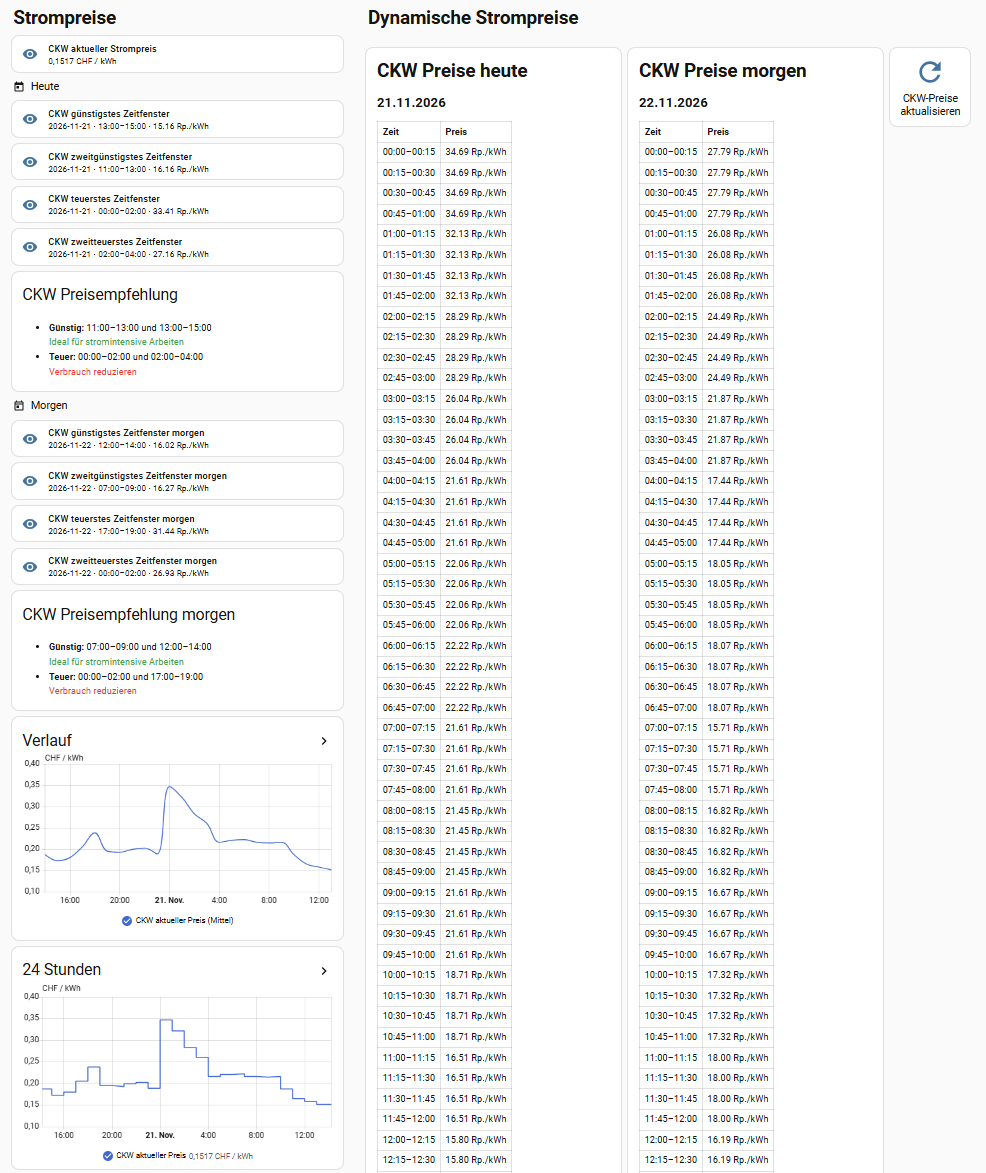
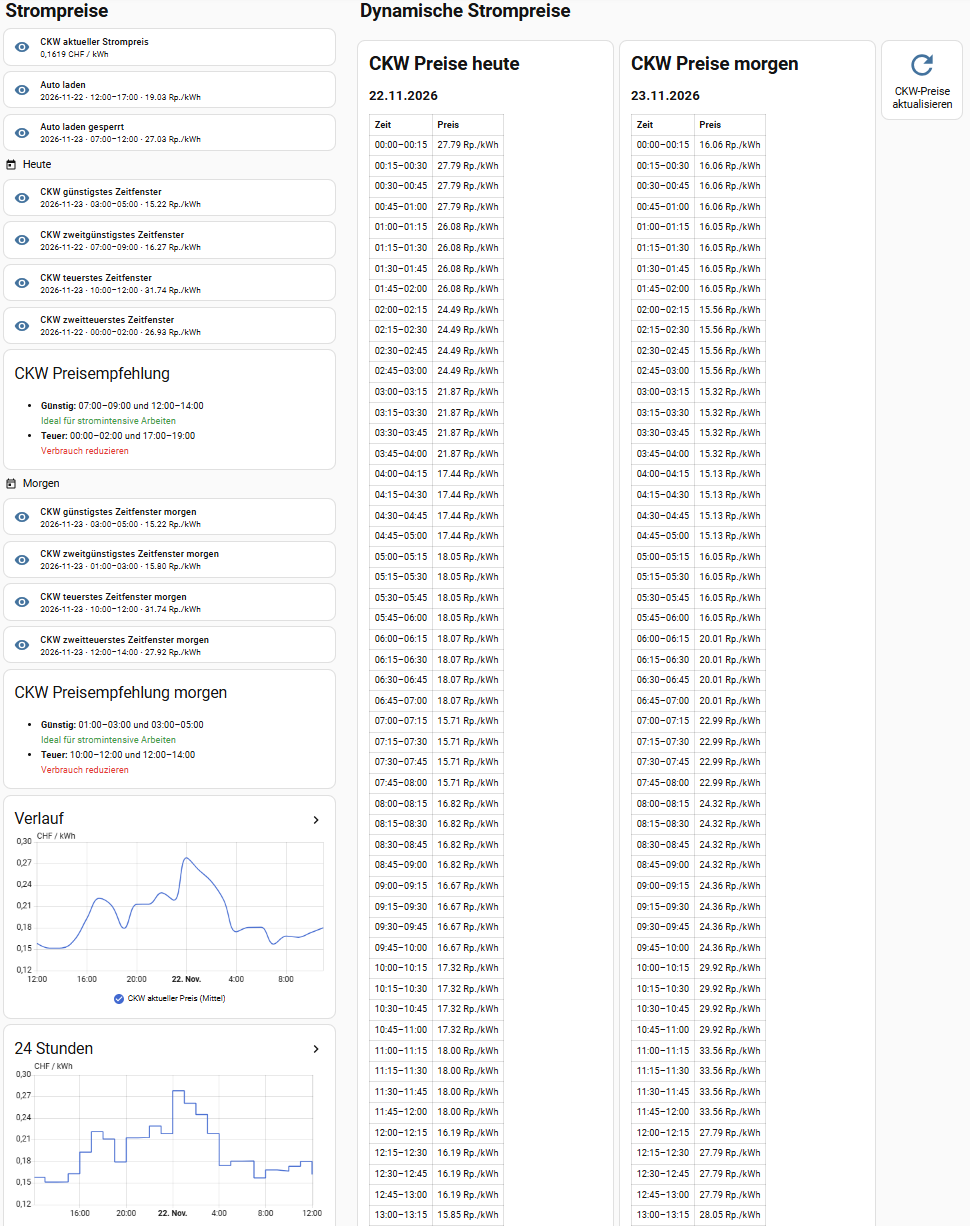
docs: refresh CKW helper and dashboard guides

diff --git a/docs/anleitung.md b/docs/anleitung.md
@@ -122,9 +122,90 @@ Erstelle einen Template-Sensor-Helfer unter **Einstellungen → Geräte & Dienst
 
 Setze die Einheit auf `CHF/kWh`. Lasse die Geräteklasse leer. Falls der Helfer eine Zustandsklasse anbietet, wähle `measurement` (Messwert). Speichere den Helfer und prüfe die von Home Assistant erstellte Entitäts-ID. Die folgenden Beispiele verwenden `sensor.ckw_aktueller_preis`; ersetze sie durch die tatsächlich erstellte ID, falls sie abweicht.
 
+## 4. Acht Zeitfenster-Sensoren erstellen
+
+Erstelle acht Template-Sensor-Helfer. Für jeden Helfer verwendest du denselben Zustandscode weiter unten, aber passt die drei Einstellungen am Anfang entsprechend der Tabelle an. Der Code filtert erst auf den Zieldatumsbereich und sortiert danach. Die Sensoren für den zweiten Platz schliessen Zeitfenster aus, die das jeweils beste Zeitfenster überlappen.
+
+| Helfername | `tage_voraus` | `teuerstes` | `zweites` |
+|---|---:|---|---|
+| CKW günstigstes Zeitfenster von 2h | `0` | `false` | `false` |
+| CKW zweitgünstigstes Zeitfenster von 2h | `0` | `false` | `true` |
+| CKW teuerstes Zeitfenster von 2h | `0` | `true` | `false` |
+| CKW zweitteuerstes Zeitfenster von 2h | `0` | `true` | `true` |
+| CKW günstigstes Zeitfenster morgen von 2h | `1` | `false` | `false` |
+| CKW zweitgünstigstes Zeitfenster morgen von 2h | `1` | `false` | `true` |
+| CKW teuerstes Zeitfenster morgen von 2h | `1` | `true` | `false` |
+| CKW zweitteuerstes Zeitfenster morgen von 2h | `1` | `true` | `true` |
+
+Für jeden Sensor: Code kopieren, die drei Parameterzeilen oben setzen, den Code im Feld **Zustand** des jeweiligen Template-Sensor-Helfers speichern. Nicht unter **Entwicklerwerkzeuge → Zustände → Zustand setzen** einfügen; dieses Werkzeug wertet Jinja nicht aus.
+
+```jinja
+{% set tage_voraus = 0 %}
+{% set teuerstes = false %}
+{% set zweites = false %}
+
+{% set p = state_attr('sensor.ckw_tarifdaten', 'prices') or [] %}
+{% set zieltag = (now() + timedelta(days=tage_voraus)).strftime('%Y-%m-%d') %}
+{% set ns = namespace(fenster=[]) %}
+
+{# Acht Viertelstundenpreise ergeben ein 2-Stunden-Fenster #}
+{% for i in range(0, (p | count) - 7) %}
+  {% set block = p[i:i+8] %}
+  {% set werte = namespace(liste=[]) %}
+
+  {% for q in block %}
+    {% if q.integrated is defined and q.integrated | count > 0 %}
+      {% set werte.liste = werte.liste + [q.integrated[0].value | float(0)] %}
+    {% endif %}
+  {% endfor %}
+
+  {% if block | count == 8
+        and werte.liste | count == 8
+        and block[0].start_timestamp[:10] == zieltag
+        and block[7].end_timestamp[:10] == zieltag %}
+    {% set ns.fenster = ns.fenster + [{
+      'start': i,
+      'preis': (werte.liste | sum) / 8
+    }] %}
+  {% endif %}
+{% endfor %}
+
+{% if teuerstes %}
+  {% set sortiert = ns.fenster | sort(attribute='preis', reverse=true) %}
+{% else %}
+  {% set sortiert = ns.fenster | sort(attribute='preis') %}
+{% endif %}
+
+{% set auswahl = namespace(fenster=none) %}
+
+{% if sortiert | count > 0 %}
+  {% if zweites %}
+    {% set bestes = sortiert[0] %}
+    {% for f in sortiert %}
+      {% if auswahl.fenster is none
+            and (f.start >= bestes.start + 8
+                 or f.start + 8 <= bestes.start) %}
+        {% set auswahl.fenster = f %}
+      {% endif %}
+    {% endfor %}
+  {% else %}
+    {% set auswahl.fenster = sortiert[0] %}
+  {% endif %}
+{% endif %}
+
+{% if auswahl.fenster is not none %}
+  {% set i = auswahl.fenster.start %}
+  {{ p[i].start_timestamp[:10] }} · {{ p[i].start_timestamp[11:16] }}–{{ p[i+7].end_timestamp[11:16] }} · {{ '%.2f' | format(auswahl.fenster.preis * 100) }} Rp./kWh
+{% else %}
+Für den gewählten Tag wurden keine passenden CKW-Preise gefunden
+{% endif %}
+```
+
+Die `sensor.`-IDs entstehen aus den Helfernamen. Home Assistant kann Umlaute umschreiben oder bei Namenskonflikten eine Endung hinzufügen. Prüfe die tatsächlichen IDs unter **Einstellungen → Geräte & Dienste → Entitäten** und verwende genau diese IDs in weiteren Vorlagen.
+
 Für 5-Stunden-Fenster zum Laden eines Elektroautos siehe die separate [Anleitung zu Auto-Laden-Zeitfenstern](auto-laden.md).
 
-## 4. Automationsbeispiel
+## 5. Automationsbeispiel
 
 Dieses Beispiel wird ausgelöst, wenn der aktuelle Preis die Schwelle von 0,20 CHF/kWh (20 Rp./kWh) nach unten überschreitet. Ergänze unter `actions:` die gewünschte Aktion.
 

diff --git a/README.md b/README.md
@@ -2,16 +2,20 @@
 
 Dieses öffentliche Teilprojekt ruft dynamische CKW-Tarifdaten ab und zeigt Beispiele für Sensoren, Preisfenster, Empfehlungen und Dashboard-Karten. Es ist ein unabhängiges Community-Beispiel und wird nicht offiziell von CKW oder Home Assistant unterstützt.
 
+![CKW-Dashboard mit Ladezeitfenstern, Preisempfehlungen und dynamischen Strompreisen](docs/assets/dashboard-preview.png)
+
+Die Dashboard-Vorschau zeigt Beispielwerte vom 22. November 2026. Preise und Zeitfenster ändern sich laufend.
+
 ## Inhalt
 
 - `packages/ckw_tarife.yaml`: Home Assistant Package mit der CKW-REST-Datenquelle
-- `docs/anleitung.md`: Sensoren, Auswertung, Empfehlungen, Benachrichtigungen und automatische Aktualisierung
+- `docs/anleitung.md`: Einrichtung und Code der Sensoren und Helfer, Empfehlungen, Benachrichtigungen und automatische Aktualisierung
 - `docs/auto-laden.md`: günstigstes und teuerstes nicht überlappendes 5-Stunden-Fenster fürs Elektroauto
 - `docs/dashboard.md`: Dashboard-Karten und Anordnung
 - `docs/examples/rest-sensor.yaml`: eigenständiges REST-Beispiel
 - `docs/assets/dashboard-preview.png`: Dashboard-Vorschau
 - `docs/CKW_Dynamischer_Tarif_Home_Assistant_Anleitung.docx`: Anleitung als Word-Dokument
-- `docs/source/`: unveränderte ursprüngliche Projektübergabe samt Anhängen und Screenshots
+- `docs/source/`: archivierte ursprüngliche Projektübergabe samt Anhängen und Screenshots
 
 ## Installation
 
@@ -21,4 +25,4 @@ Prüfe den Tarifnamen und die tatsächlich erzeugten Entity-IDs deiner Installat
 
 ## Hinweise zur Veröffentlichung
 
-Die Dateien in `docs/source/` sind zur Nachvollziehbarkeit der übergebenen Arbeitsunterlagen enthalten. Änderungen an den kuratierten Dateien und der aktiven Paketkonfiguration werden in den jeweiligen Hauptdateien vorgenommen.
+Die aktuelle und massgebliche Anleitung liegt unter `docs/anleitung.md`; die Dashboard-Referenz steht unter `docs/dashboard.md`. Die Dateien in `docs/source/` sind historische Arbeitsunterlagen und keine separate, aktuelle Anleitung. Änderungen gehören in die aktiven Dateien ausserhalb des Archivs.

diff --git a/docs/dashboard.md b/docs/dashboard.md
@@ -8,9 +8,10 @@ Das Dashboard ist in zwei Bereiche gegliedert:
 
 ### Strompreise
 
-1. Aktueller CKW-Strompreis.
+1. Aktueller CKW-Strompreis und die 5-Stunden-Fenster **Auto laden** und **Auto laden gesperrt**.
 2. Abschnitt **Heute** mit den vier heutigen 2-Stunden-Zeitfenstern und der heutigen Preisempfehlung.
 3. Abschnitt **Morgen** mit den vier morgigen 2-Stunden-Zeitfenstern und der morgigen Preisempfehlung.
+4. Verlaufskarten für den aktuellen Preis und die nächsten 24 Stunden.
 
 ### Dynamische Strompreise
 
@@ -19,6 +20,12 @@ Das Dashboard ist in zwei Bereiche gegliedert:
 3. Button, der den REST-Sensor sofort erneut abfragt.
 
 Für ein Layout wie im Screenshot platziere die Karten in einer breiten Dashboard-Ansicht: links den Bereich **Strompreise**, rechts **Dynamische Strompreise** mit den beiden Tabellen nebeneinander und dem Aktualisierungsbutton daneben. In der mobilen Ansicht können Karten untereinander angeordnet werden.
+
+### Aktuelle Dashboard-Vorschau
+
+![CKW-Dashboard mit Ladezeitfenstern, Preisempfehlungen, Preisverläufen und Viertelstundentabellen](assets/dashboard-preview.png)
+
+Die Vorschau zeigt Beispielwerte vom 22. November 2026. Preise und Zeitfenster ändern sich mit den veröffentlichten CKW-Tarifdaten.
 
 ## Verwendete Entitäten
 
